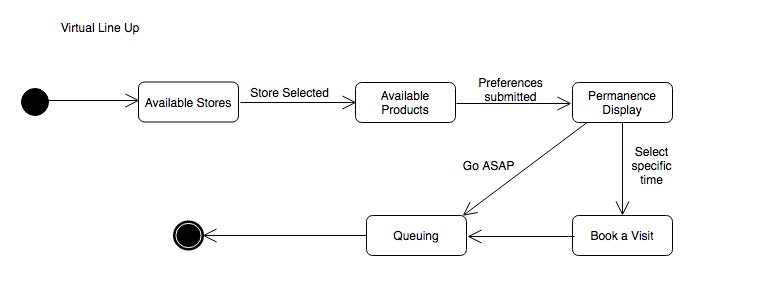
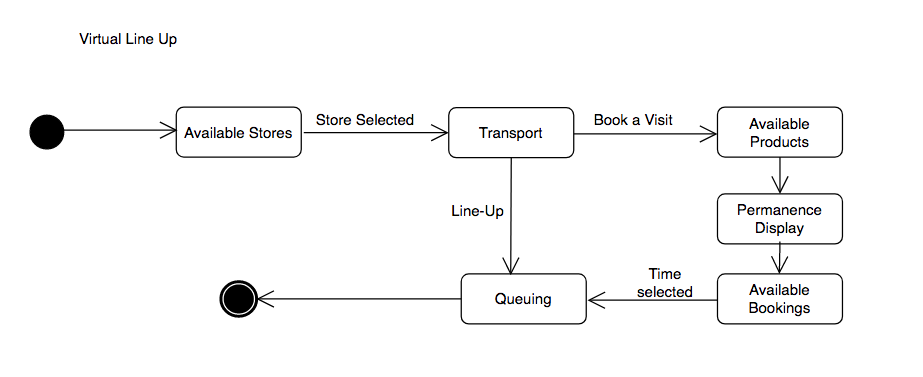
Updated Virtual Line Up

diff --git a/RASD/RASD.tex b/RASD/RASD.tex
@@ -226,7 +226,7 @@ What’s more, to enter the store, he needs to show the QR-code, and then he has
 			\label{fig:state_diagram3}
 		\end{figure}
 		
-		Here (Figure \ref{fig:state_diagram3})  are shown the steps to go through the virtual line up of the user, that has to face some intermediate steps before he gains the possibility to line up to the store. When a the store has been selected, the user can see the available products that he can buy and has to choose which one of them he wants to buy, so that the system can collect his preferences. Then the user is asked to indicate his permanence into the store, in order to better manage the queue and the next available spots in the timeline. In conclusion, the user can decide if he wants to book a visit at a specific time or if he wants to immediately line up to enter the store as soon as possible. \\
+		Here (Figure \ref{fig:state_diagram3})  are shown the steps to go through the virtual line up of the user, that has to face some intermediate steps before gaining the possibility to line up to the store. When the store has been selected, the user needs to indicate the transportation he will use to reach the store. Then, if he doesn't want to line up immediately but wants to book a visit, he will see the available products that he can buy and will have to choose which one of them he wants to buy, so that the system can collect his preferences. Then the user is asked to indicate his permanence into the store, in order to better manage the queue and the next available spots in the timeline. \\
 		
 
 \newpage
